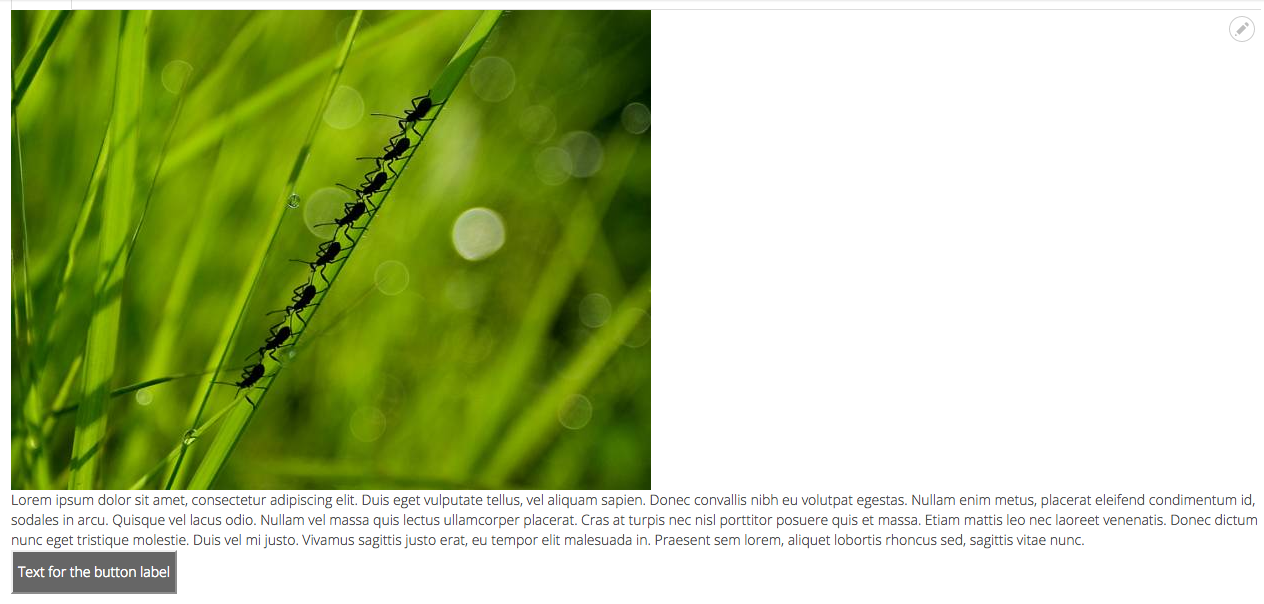
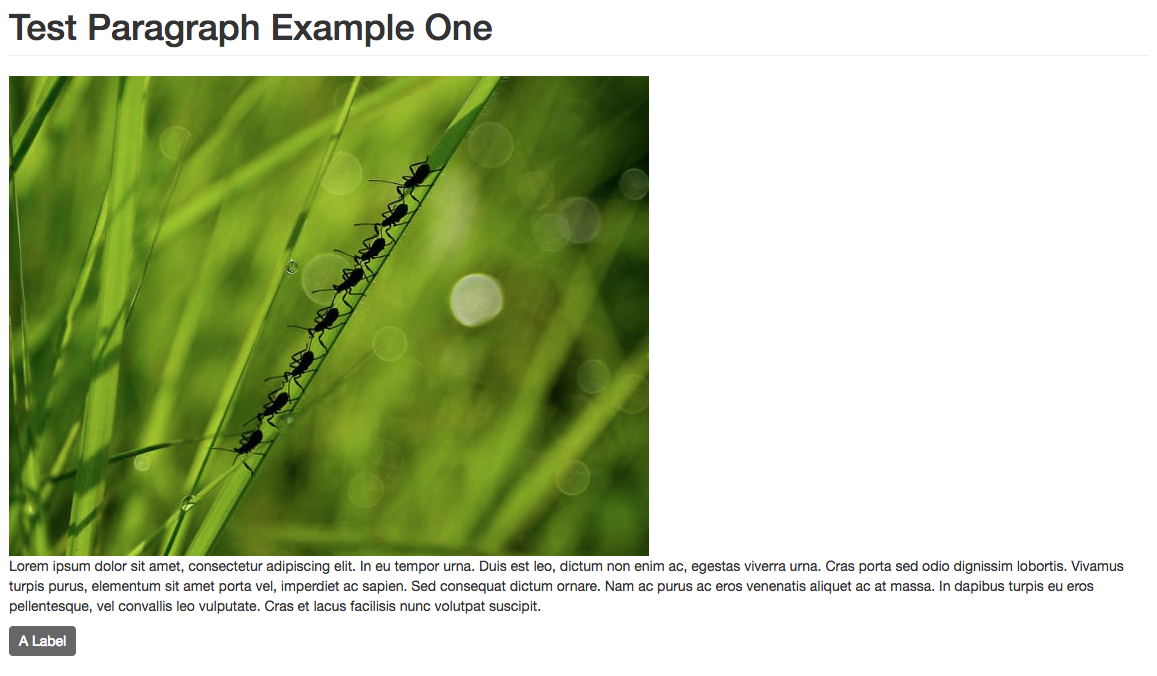
Fix code on Component based theme using UI-Patterns docs

diff --git a/site/drupal/drupal_ui_patterns/index.html b/site/drupal/drupal_ui_patterns/index.html
@@ -613,6 +613,13 @@
   
 </li>
       
+        <li class="md-nav__item">
+  <a href="#summary" title="Summary" class="md-nav__link">
+    Summary
+  </a>
+  
+</li>
+      
       
       
     </ul>
@@ -721,6 +728,13 @@
   
 </li>
       
+        <li class="md-nav__item">
+  <a href="#summary" title="Summary" class="md-nav__link">
+    Summary
+  </a>
+  
+</li>
+      
       
       
     </ul>
@@ -738,7 +752,7 @@
                 
                 <h1 id="component-based-theme-using-ui-patterns">Component based theme using UI-Patterns<a class="headerlink" href="#component-based-theme-using-ui-patterns" title="Permanent link">&para;</a></h1>
 <p><a href="https://www.drupal.org/project/ui_patterns">UI Patterns</a> can expose stand-alone theme components (patterns) to Drupal and enables them to be used with the core Layout and Views module and well-known contrib modules like Field Group, Display Suite and Panels.</p>
-<p>Here is explained how to create a component library by an example that includes two components:</p>
+<p>Here we explain how to create a component library, in a custom theme, by an example that includes two components:</p>
 <ul>
 <li><code>Button One</code></li>
 <li><code>Paragraph One</code> (include <code>Button One</code>)</li>
@@ -750,6 +764,14 @@
 <li><a href="https://www.drupal.org/project/ds">Display Suite</a></li>
 <li><a href="https://www.drupal.org/project/paragraphs">Paragraphs</a></li>
 <li><a href="https://www.drupal.org/project/ui_patterns">UI Patterns</a></li>
+</ul>
+<p>The following modules must be enabled:</p>
+<ul>
+<li>Display Suite (<code>ds</code>)</li>
+<li>UI Patterns (<code>ui_patterns</code>)</li>
+<li>UI Patterns Dsiplay Suite (<code>ui_patterns_ds</code>)</li>
+<li>UI Patterns Layout (<code>ui_patterns_layouts</code>)</li>
+<li>Ui Patterns Library (<code>ui_patterns_library</code>)</li>
 </ul>
 <h2 id="build-component-library">Build component library<a class="headerlink" href="#build-component-library" title="Permanent link">&para;</a></h2>
 <h4 id="1-create-the-components-library">1. Create the components library<a class="headerlink" href="#1-create-the-components-library" title="Permanent link">&para;</a></h4>
@@ -819,12 +841,13 @@
   version: 1.x
   css:
     component:
-      components/atoms/buttons/button-one.css: {}
+      components/atoms/buttons/button-one/button-one.css: {}
   js:
-    components/atoms/buttons/button-one.js: {}
+    components/atoms/buttons/button-one/button-one.js: {}
   dependencies:
     - core/jquery
     - core/jquery.once
+    - core/jquery.ui.dialog
 </pre></div>
 
 
@@ -857,7 +880,9 @@
   background: #666666;
   color: #ffffff;
   display: inline-block;
-  padding: 10px 5px;
+  padding: 5px 10px;
+  border: none;
+  margin: 10px 0;
 }
 </pre></div>
 
@@ -872,7 +897,7 @@
      * Drupal attach behavior.
      */
     attach: function(context, settings) {
-      $(&#39;.button-one&#39;).once(&#39;button-one-click&#39;).click(function() {
+      $(&#39;.btn-one&#39;).once(&#39;btn-one-click&#39;).click(function() {
         $(&quot;&lt;div&gt;You clicked on button one!&lt;/div&gt;&quot;).dialog();
       });
     }
@@ -906,6 +931,7 @@
 <p>As you can see we associated the created pattern, in the <code>Select a layout</code> section (below the screen), and we mapped the paragraph fields to the pattern fields.</p>
 <p>Finally we can create a content with the created paragraph that must look like:</p>
 <p><img alt="Paragraph Example One Content" src="../../img/drupal/paragraph_3.png" title="Paragraph Example One Content" /></p>
+<h2 id="summary">Summary<a class="headerlink" href="#summary" title="Permanent link">&para;</a></h2>
                 
                   
                 

diff --git a/docs/drupal/drupal_ui_patterns.md b/docs/drupal/drupal_ui_patterns.md
@@ -2,7 +2,7 @@
 
 [UI Patterns](https://www.drupal.org/project/ui_patterns) can expose stand-alone theme components (patterns) to Drupal and enables them to be used with the core Layout and Views module and well-known contrib modules like Field Group, Display Suite and Panels.
 
-Here is explained how to create a component library by an example that includes two components:
+Here we explain how to create a component library, in a custom theme, by an example that includes two components:
 
 * `Button One`
 * `Paragraph One` (include `Button One`)
@@ -15,6 +15,14 @@ The `Drupal` modules required are:
 * [Display Suite](https://www.drupal.org/project/ds)
 * [Paragraphs](https://www.drupal.org/project/paragraphs)
 * [UI Patterns](https://www.drupal.org/project/ui_patterns)
+
+The following modules must be enabled:
+
+* Display Suite (`ds`)
+* UI Patterns (`ui_patterns`)
+* UI Patterns Dsiplay Suite (`ui_patterns_ds`)
+* UI Patterns Layout (`ui_patterns_layouts`)
+* Ui Patterns Library (`ui_patterns_library`)
 
 ## Build component library
 
@@ -91,12 +99,13 @@ We must define our asset library into the `[THEME_NAME].libraries.yml` of our th
       version: 1.x
       css:
         component:
-          components/atoms/buttons/button-one.css: {}
+          components/atoms/buttons/button-one/button-one.css: {}
       js:
-        components/atoms/buttons/button-one.js: {}
+        components/atoms/buttons/button-one/button-one.js: {}
       dependencies:
         - core/jquery
         - core/jquery.once
+        - core/jquery.ui.dialog
 
 We must now create the asset files for `button-one.css` and `button-one.js` inside the theme directory declared above.
 
@@ -129,7 +138,9 @@ Let's add the `css` code to `button-one.css`:
       background: #666666;
       color: #ffffff;
       display: inline-block;
-      padding: 10px 5px;
+      padding: 5px 10px;
+      border: none;
+      margin: 10px 0;
     }
 
 Let's add the `javascript` to `button-one.js`:
@@ -143,7 +154,7 @@ Let's add the `javascript` to `button-one.js`:
          * Drupal attach behavior.
          */
         attach: function(context, settings) {
-          $('.button-one').once('button-one-click').click(function() {
+          $('.btn-one').once('btn-one-click').click(function() {
             $("<div>You clicked on button one!</div>").dialog();
           });
         }
@@ -183,3 +194,4 @@ As you can see we associated the created pattern, in the `Select a layout` secti
 Finally we can create a content with the created paragraph that must look like:
 
 ![Paragraph Example One Content](../img/drupal/paragraph_3.png "Paragraph Example One Content")
+
